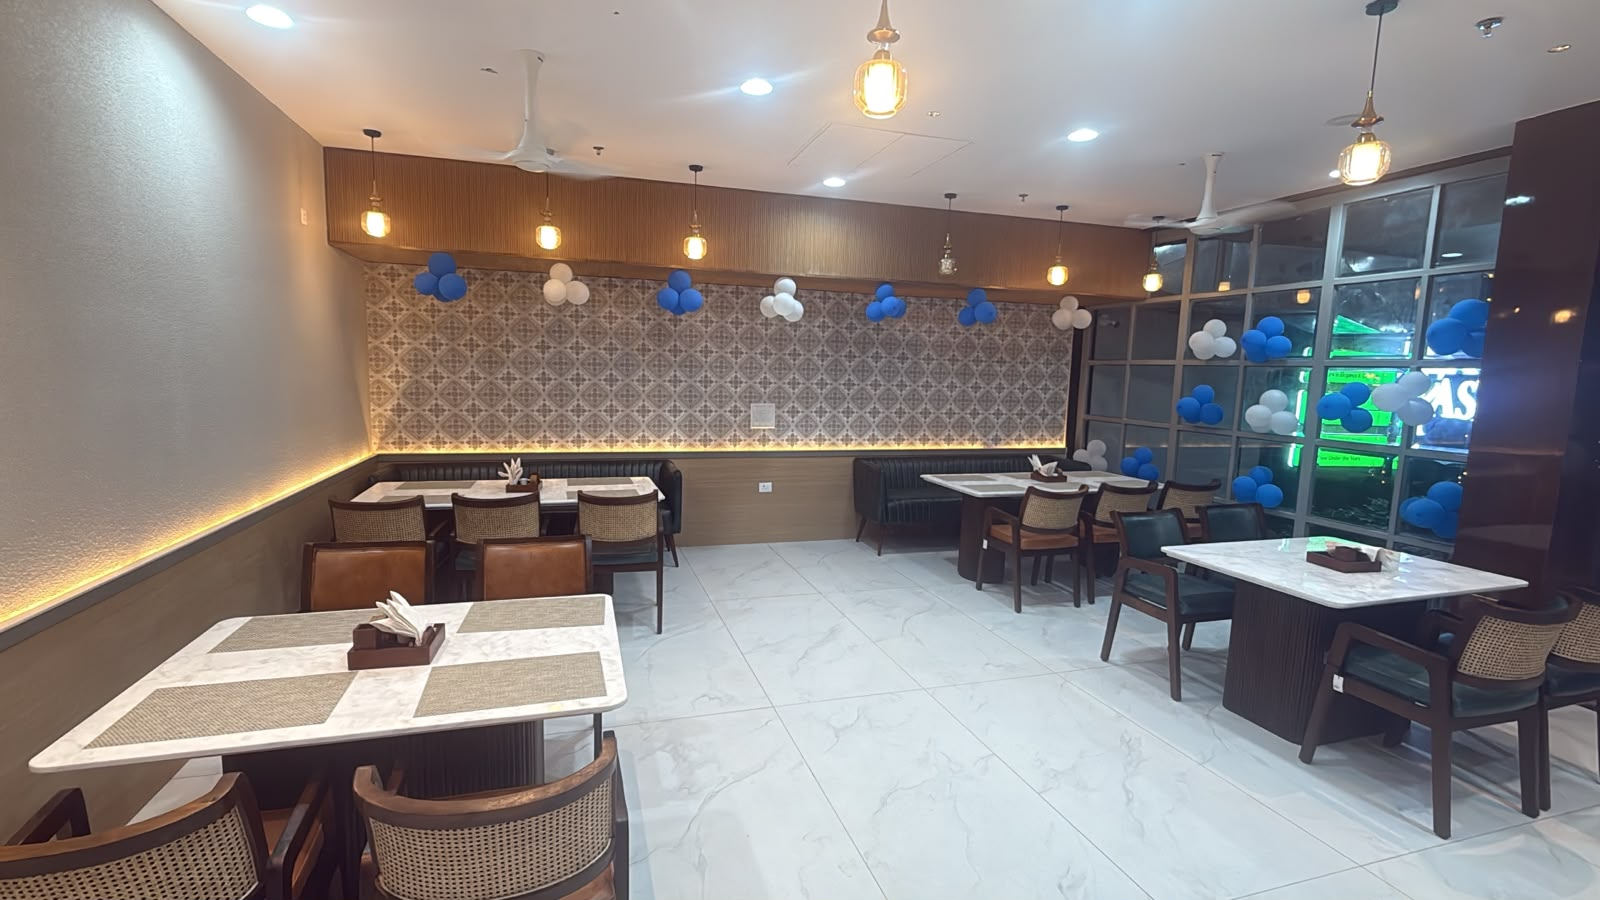
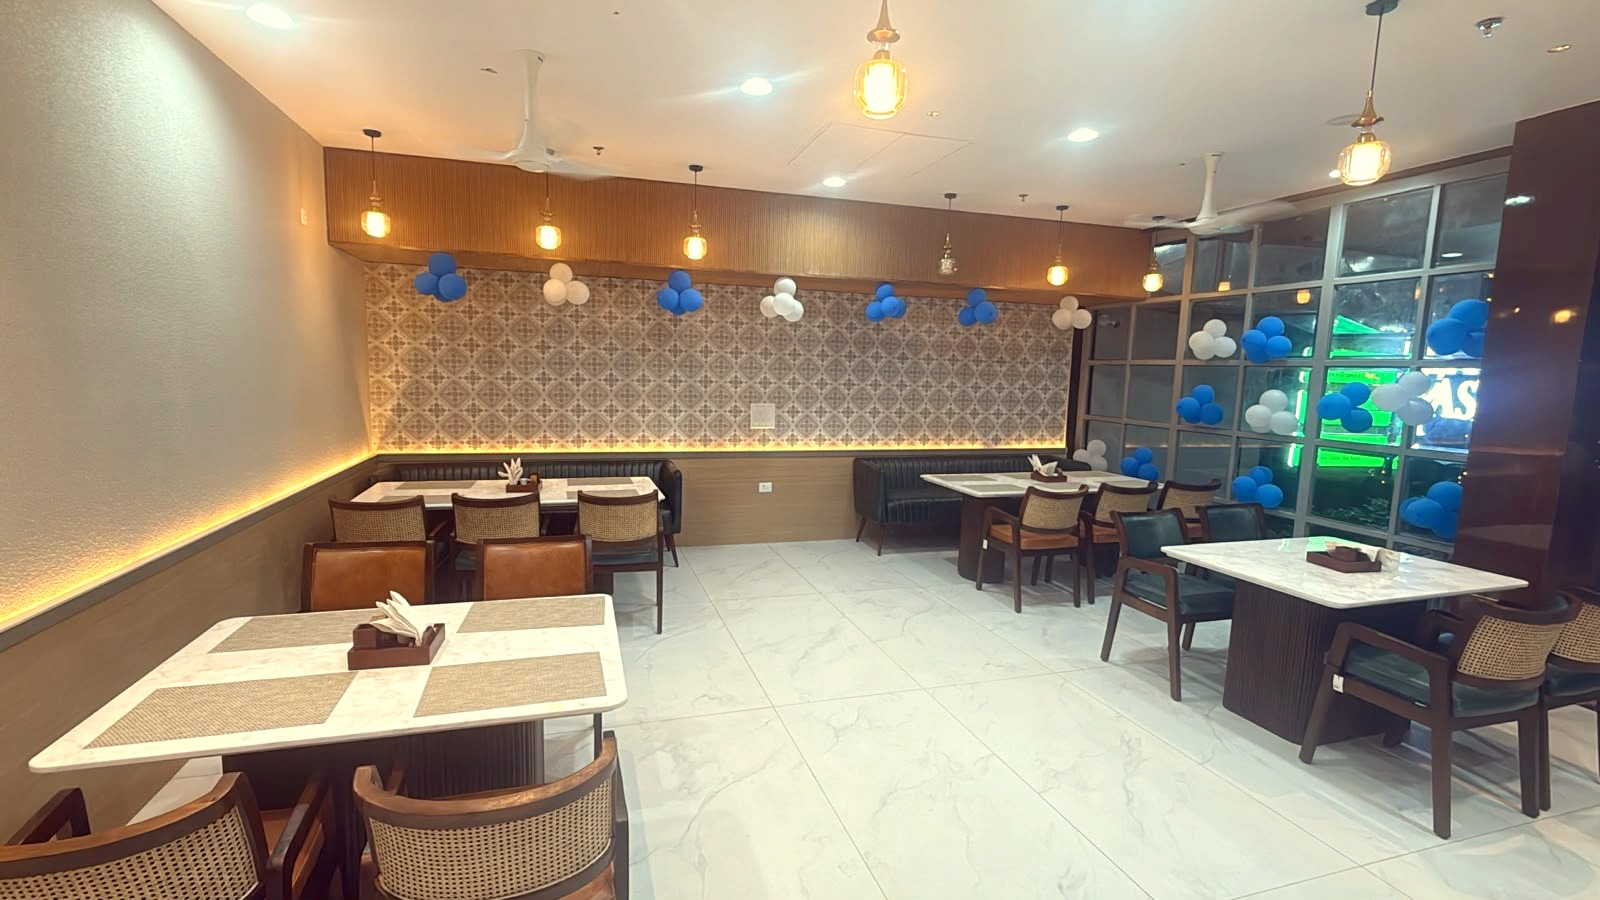
Colour-correct property photos as a set, stop requesting oversized images
- Applied one consistent preset to all 19 tasey-*.jpeg property photos:
  a fixed warm/cool channel correction to counter the blue-grey
  overcast cast (blue -10%, red +5%), a gamma-based shadow lift, plus
  a small contrast/saturation boost. Tested on both an overcast
  exterior (rooftop pool) and interior shots before batch-applying so
  it doesn't over-warm already-warm-lit rooms. Originals are recoverable
  from git history.
- next.config.ts: capped images.deviceSizes/imageSizes at 1600px (the
  widest any source photo actually is) instead of the Next.js default
  that goes up to 3840px, so the site can no longer request an
  upscaled variant larger than the source file
- Added explicit `sizes` props to every fill-mode Image across all 8
  components (previously none had one, which is what caused Next.js
  to default to requesting the largest configured size regardless of
  actual rendered width)

Not done, and not something I can do from here:
- Licence confirmation for the lion/leopard/Amber Fort stock photos --
  needs to come from whoever sourced them
- Replacing the elephant-ride photo -- no alternative image exists in
  the repo; needs a real replacement from the client

diff --git a/src/components/Gallery.tsx b/src/components/Gallery.tsx
@@ -165,6 +165,7 @@ export default function Gallery() {
                   src={item.image}
                   alt={item.title}
                   fill
+                  sizes="(min-width: 1024px) 33vw, (min-width: 640px) 50vw, 100vw"
                   className="object-cover"
                 />
               </button>
@@ -192,6 +193,7 @@ export default function Gallery() {
               src={selectedImage.url}
               alt={selectedImage.title}
               fill
+              sizes="100vw"
               className="object-contain"
             />
             <p className="relative z-10 pt-4 text-center text-[16px] text-white">

diff --git a/next.config.ts b/next.config.ts
@@ -2,6 +2,10 @@ import type { NextConfig } from "next";
 
 const nextConfig: NextConfig = {
   images: {
+    // Source photos are 1280-1600px wide. Cap generated sizes there so
+    // Next.js never requests (and upscales to) larger variants like 3840px.
+    deviceSizes: [640, 750, 828, 1080, 1200, 1600],
+    imageSizes: [16, 32, 48, 64, 96, 128, 256, 384],
     remotePatterns: [
       {
         protocol: "https",

diff --git a/src/components/Celebrations.tsx b/src/components/Celebrations.tsx
@@ -31,6 +31,7 @@ export default function Celebrations({ onOpenBooking }: CelebrationsProps) {
               src="/images/tasey-10.jpeg"
               alt="The Tasey banquet hall setup"
               fill
+              sizes="(min-width: 1024px) 58vw, 100vw"
               className="object-cover"
             />
           </div>

diff --git a/src/components/Excursions.tsx b/src/components/Excursions.tsx
@@ -63,6 +63,7 @@ export default function Excursions({ onOpenBooking }: ExcursionsProps) {
                   src={exp.image}
                   alt={exp.title}
                   fill
+                  sizes="(min-width: 640px) 50vw, 100vw"
                   className="object-cover"
                 />
               </div>

diff --git a/src/components/Overview.tsx b/src/components/Overview.tsx
@@ -37,6 +37,7 @@ export default function Overview() {
                 src="/images/tasey-09.jpeg"
                 alt="The Tasey view toward Amber Fort"
                 fill
+                sizes="(min-width: 1024px) 50vw, 100vw"
                 className="object-cover"
                 priority
               />

diff --git a/src/components/Rooms.tsx b/src/components/Rooms.tsx
@@ -89,6 +89,7 @@ export default function Rooms({ onOpenBooking }: RoomsProps) {
               src={activeRoom.image}
               alt={activeRoom.name}
               fill
+              sizes="(min-width: 1024px) 58vw, 100vw"
               className="object-cover"
               priority
             />

diff --git a/src/components/Dining.tsx b/src/components/Dining.tsx
@@ -78,6 +78,7 @@ export default function Dining({ onOpenBooking }: DiningProps) {
               src={current.image}
               alt={current.name}
               fill
+              sizes="(min-width: 1024px) 58vw, 100vw"
               className="object-cover"
               priority
             />

diff --git a/src/components/Attractions.tsx b/src/components/Attractions.tsx
@@ -49,6 +49,7 @@ export default function Attractions() {
                   src={att.image}
                   alt={att.name}
                   fill
+                  sizes="(min-width: 640px) 50vw, 100vw"
                   className="object-cover"
                   unoptimized
                 />

diff --git a/src/components/Hero.tsx b/src/components/Hero.tsx
@@ -177,6 +177,7 @@ export default function Hero({ onOpenBooking }: HeroProps) {
             src={slide.image}
             alt={slide.title}
             fill
+            sizes="100vw"
             priority={idx === 0}
             className="object-cover object-center"
           />
